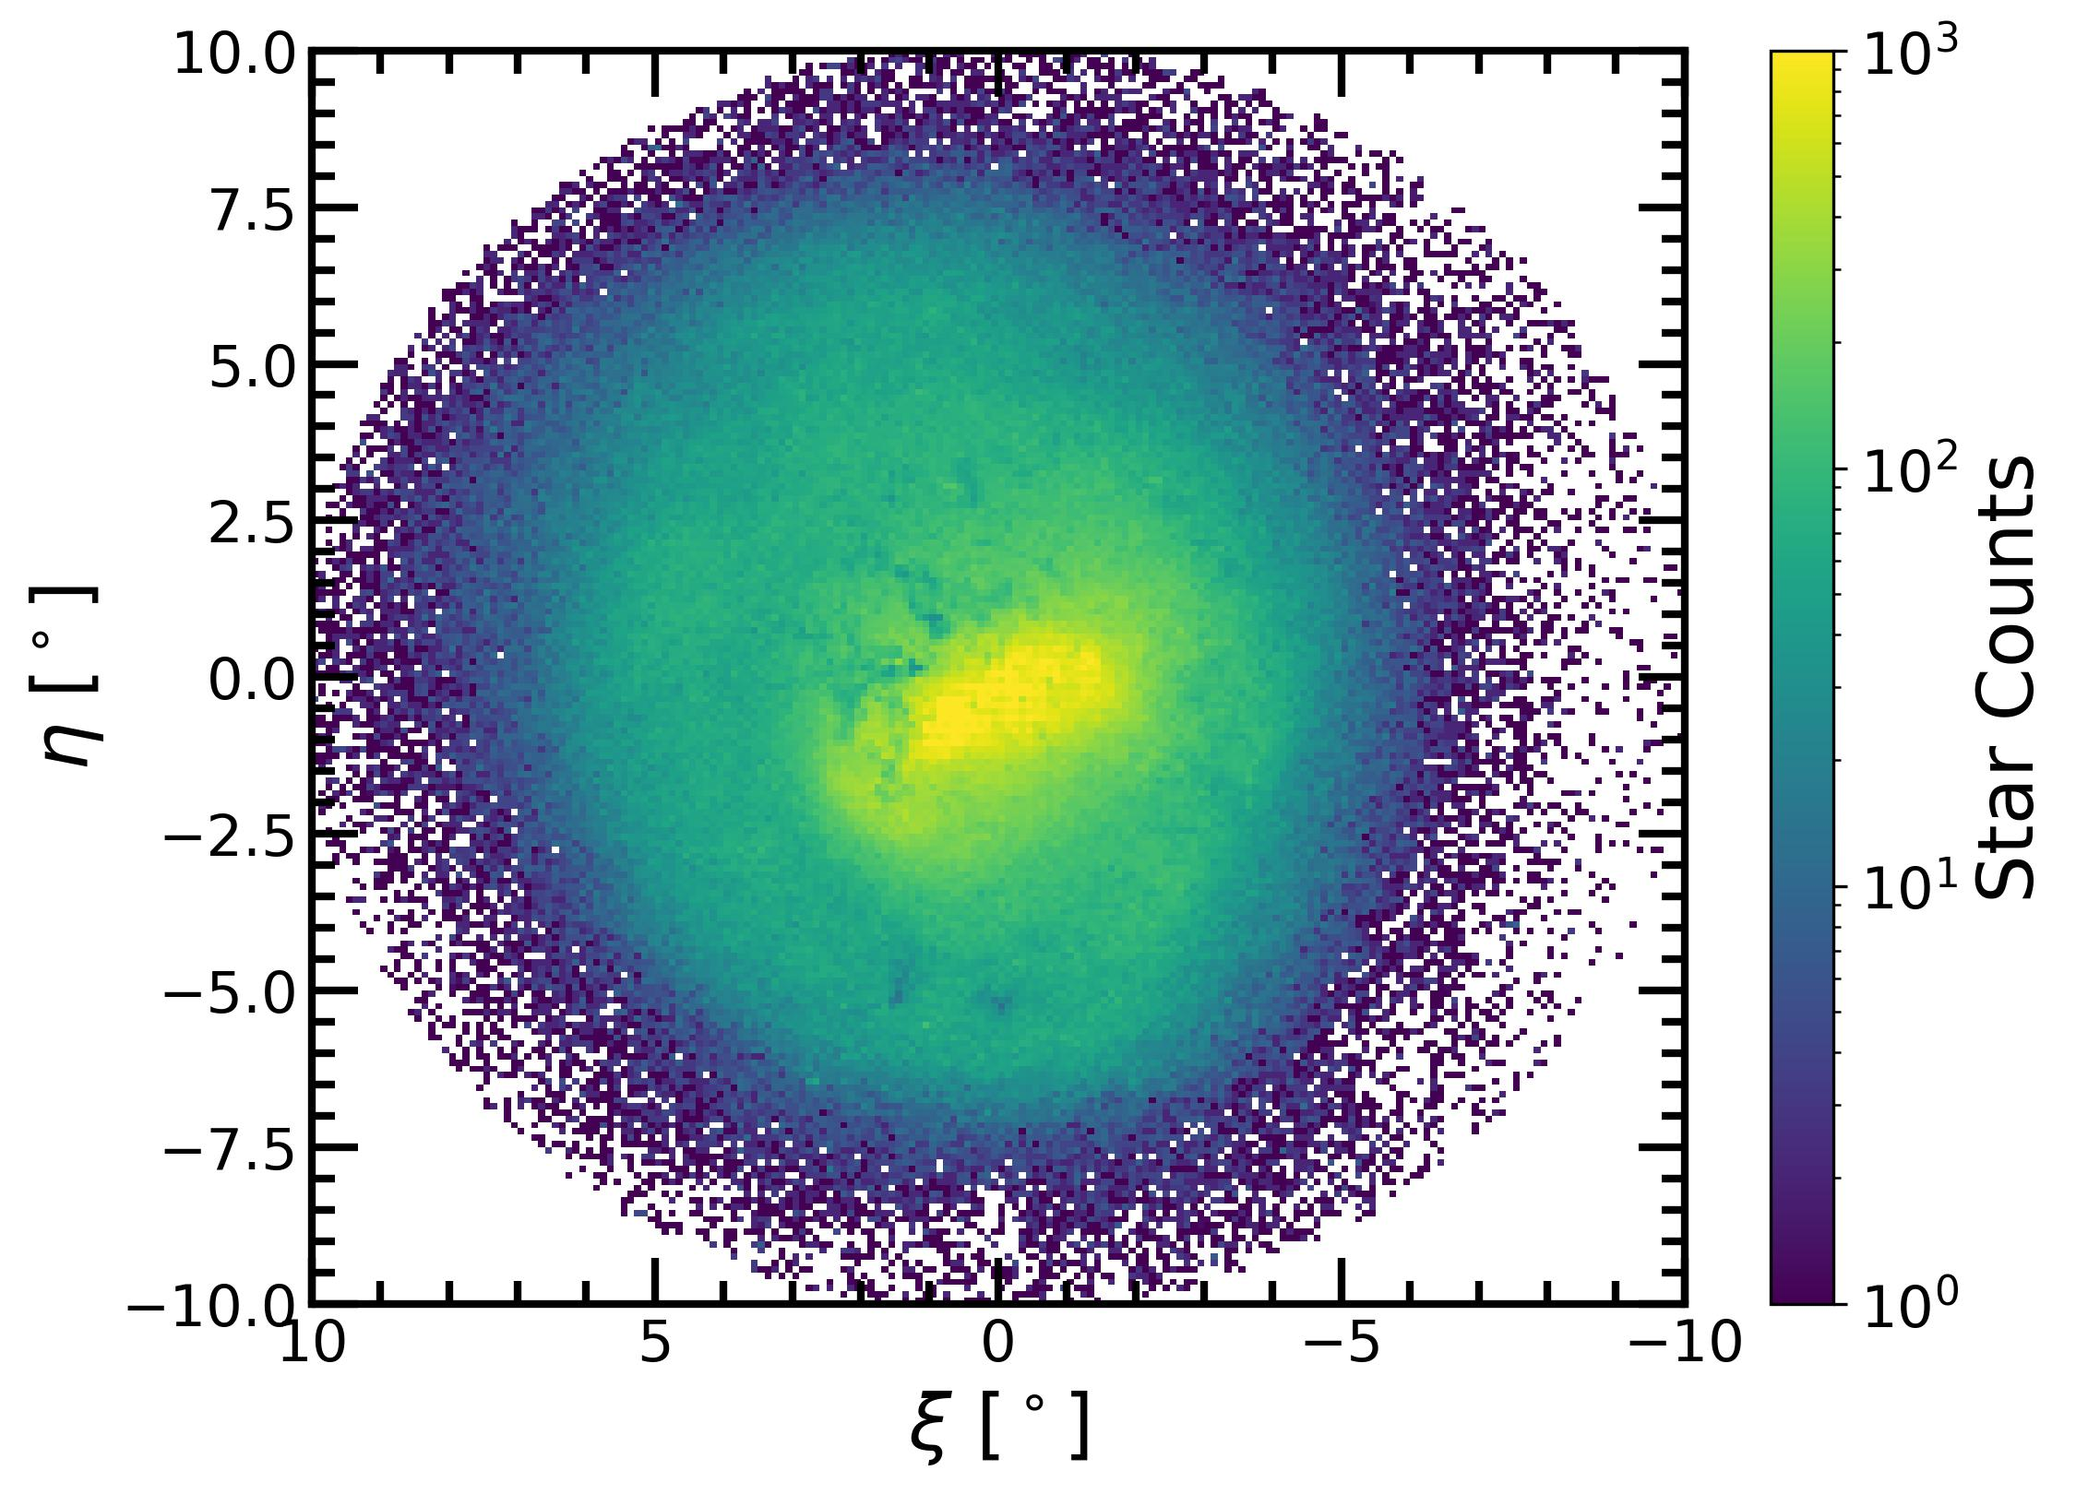
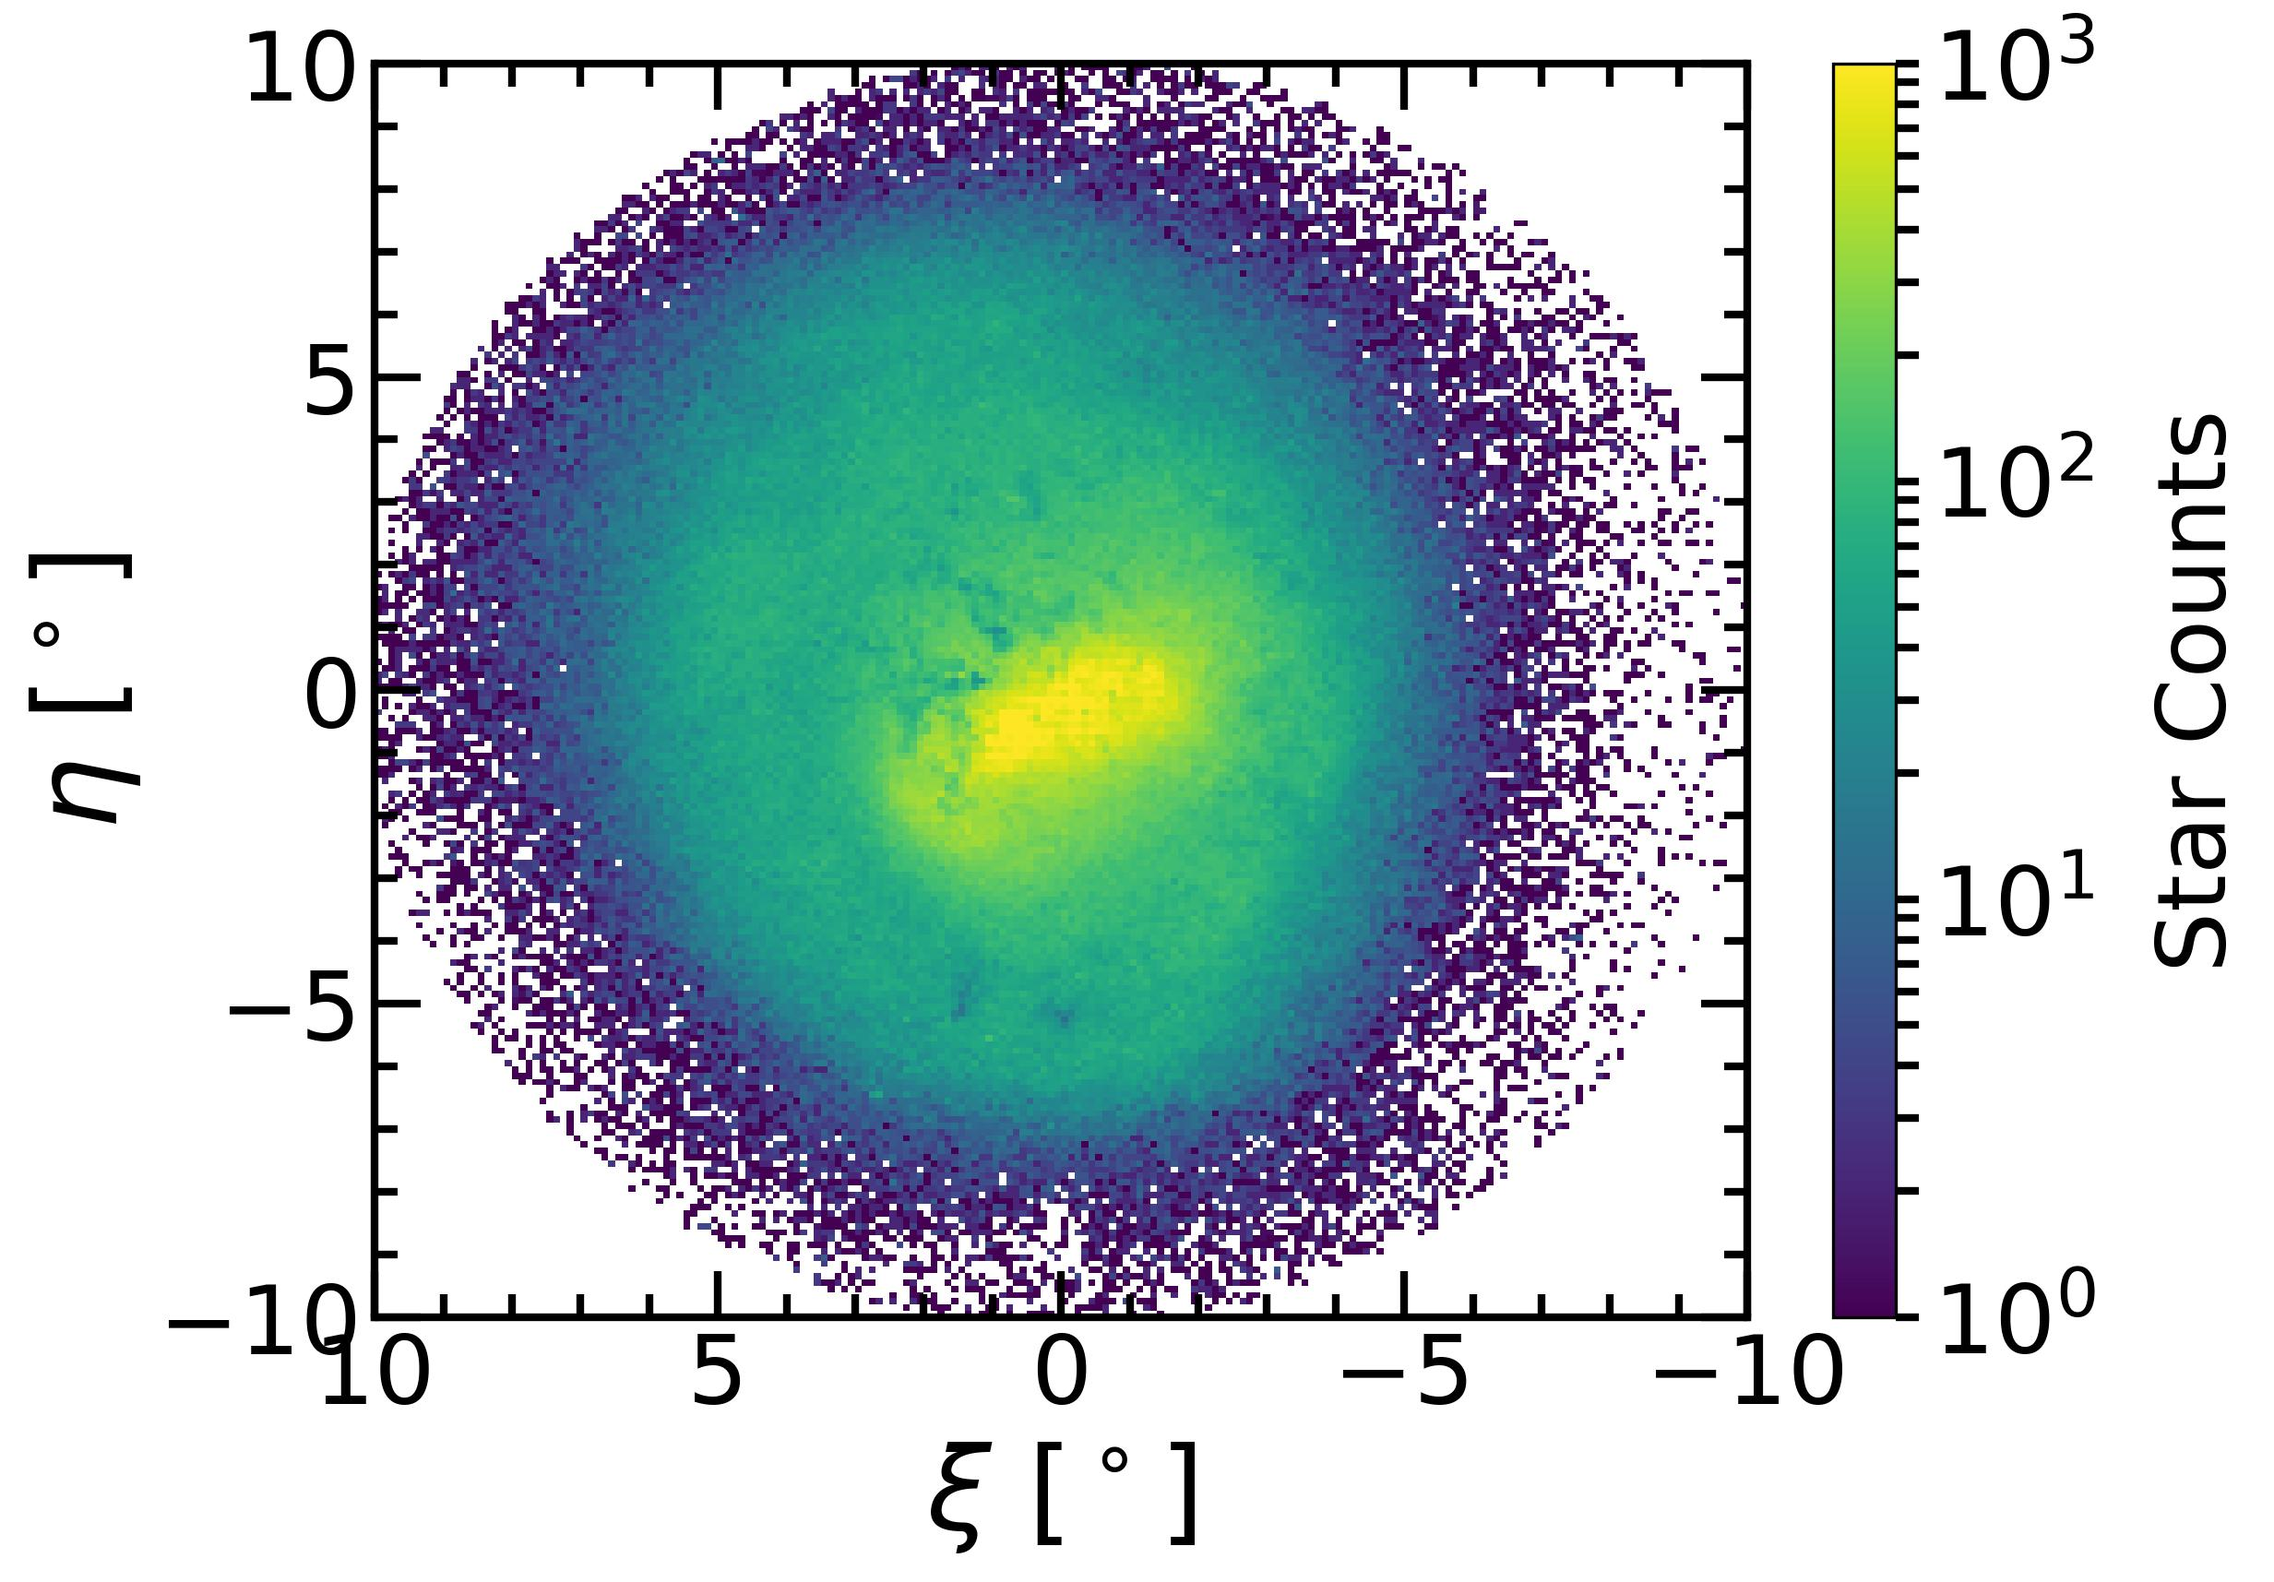
research updates

diff --git a/research.html b/research.html
@@ -45,32 +45,34 @@
 	</nav>    
 	<div class="container my-4">
 		<br>
-		<p style="font-size:25px; text-align:justify"> My research falls under the broad categories of galaxy evolution and cosmology. I like to solve problems using an amalgamation of theory, simulations and observations. Currently, I work on areas related to computational astrophysics and galaxy dynamics.
+		<p style="font-size:20px; text-align:justify"> My research falls under galaxy evolution and cosmology. I like to solve problems with an amalgamation of theory, simulations and observations. Currently, I am investigating the LMC - SMC - Milky Way system. The LMC and SMC (collectively known as the Clouds) are the two most massive satellites of the Milky Way. The Clouds have likely been interacting with each other since the past 6 billion years ! Vast photometric, spectroscopic and astrometric datasets from Gaia, Hubble Space Telescope and the Sloan Digital Sky Survey have brought us in a golden era of precision observations where the Clouds can be used as a new Astrophysical laboratory. The goal of my PhD is to utilize this laboratory to advance our understanding of galaxy dynamics and dark matter physics, as well as of the Clouds themselves. To achieve this goal, I am building state-of-the-art numerical simulations of the LMC - SMC - Milky Way interaction history as well as utilizing the aforementioned observational datasets. 
         	</p>
-        	<h3> <u> Current Projects </u> </h3>
+        	<h2> <u> PhD Projects </u> </h2>
         	<br>
-        	<h4> The LMC's Strange Bar </h4>
-<br>
+        	<h3> Measuring the LMC's Strange Bar </h3>
+		<br>
 		<div class="row justify-content-center">
+				<p style="font-size:20px" align="justify">
+				<b> For the first time, we measure the dynamical strength of the LMC's bar with the stellar density field, and find that the LMC hosts a strong bar. We discover that the LMC is similar to other barred galaxies in the local universe from the viewpoint of bar-galaxy scaling relation. </b> 
+				</p>
 			<div class="col-lg mb-lg-4">
 			    <figure>
 			    <img src="rc_disk_map_tp_weighted.jpg" class="img-fluid" alt="" srcset="">
-			    <figcaption>Source: Rathore+2024(a), submitted</figcaption>
+			    <figcaption>The LMC's disk in Gaia DR3 red clump stars, after correcting for completeness. <br> Source: Rathore+2024(a).</figcaption>
 			</div>
 			<div class="col-lg mx-2 align-self-justify">
 			    <div class="my-3">
-				<p style="font-size:20px" align="justify"> The LMC's bar has several strange properties typically not shown by barred spiral galaxies. It is offset from the disk center, tilted with respect to the disk plane, and absent in gas. It is important to precisely measure the bar properties to understand the origin of its strange nature, place the LMC in context with other barred spiral galaxies as well as understand the role of bars in the evolution of low mass galaxies. We attempt to precisely characterize the 2-D geometry of the LMC's bar using Gaia DR3 data, and try to understand the origin of its strange nature with hydrodynamic simulations. References:
-				<br>
-				<br>
-				<a href = "https://arxiv.org/abs/2410.18182"> Rathore+2024(a) </a>, submitted to ApJ
-				<br>
-				Rathore+2024(b), in prep
+			    	<br>
+				<p style="font-size:20px" align="justify"> The LMC's bar has several strange properties which are typically not shown by barred galaxies. It is offset from the disk center, tilted with respect to the disk plane, and absent in gas. Characterizing the LMC's bar is important to understand the origin of its strange nature, place the LMC in context with other barred galaxies, and understand the role of bars in the evolution of low mass galaxies. 
+				</p>
+				<p style="font-size:20px" align="justify">		
+				In <a href = "https://arxiv.org/abs/2410.18182">Rathore+2024(a)</a>, we precisely measure the 2-D geometry of the LMC's bar with Gaia DR3 data. We propose a novel solution to tackle crowding induced incompleteness in Gaia datasets, particularly for color selected Gaia sub-samples.
 				</p>
 			    </div>
 			</div>
 		</div>
         	<br>
-        	<h4> High Resolution Simulations of the LMC and SMC </h4>
+        	<h3> High Resolution Simulations of the LMC and SMC </h3>
         	<br>
 		<div class="row justify-content-center">
 			<div class="col-lg mb-lg-4">
@@ -86,9 +88,9 @@
 			</div>
 		</div>
         	<br>
-        	<h3> <u> Past Projects </u> </h3>
+        	<h2> <u> Past Projects </u> </h2>
         	<br>
-        	<h4> Star-forming S0 Galaxies </h4>
+        	<h3> Star-forming S0 Galaxies </h3>
         	<br>
         	<div class="row justify-content-center">
 			<div class="col-lg mb-lg-4">
@@ -109,7 +111,7 @@
 		        For a relatively non-technical summary, please refer to our article on <a href="https://cosmicvarta.in/star_formation_sdss_himansh_kavin"> CosmicVarta</a>.
 	        </p>
         	<br>
-        	<h4> G-transition & the Hubble Tension </h4>
+        	<h3> G-transition & the Hubble Tension </h3>
         	<br>
         	<div class="row justify-content-center">
 			<div class="col-lg mb-lg-4">

diff --git a/index.html b/index.html
@@ -53,9 +53,9 @@
 		</div>
 		<div class="col-lg mx-2 align-self-center">
 		    <div class="my-3">
-		        <h1 class="text-center">Himansh Rathore</h1>
+		        <h1 class="text-center" style="font-size:45px">Himansh Rathore</h1>
 		        <br>
-		        <p style="font-size:20px" align="justify">I am a PhD scholar and a NASA FINESST Fellow at the Department of Astronomy & Steward Observatory, University of Arizona. I completed my undergraduation in Engineering Physics from the Indian Institute of Technology Bombay, where I was a physics fellow of the National Initiative for Undergraduate Sciences program.
+		        <p style="font-size:25px" align="justify">I am a PhD scholar and a NASA FINESST Fellow at the Department of Astronomy & Steward Observatory, University of Arizona. I completed my undergraduation in Engineering Physics from the Indian Institute of Technology Bombay, where I was a physics fellow of the National Initiative for Undergraduate Sciences program.
 		        </p>
 		    </div>
 		</div>
